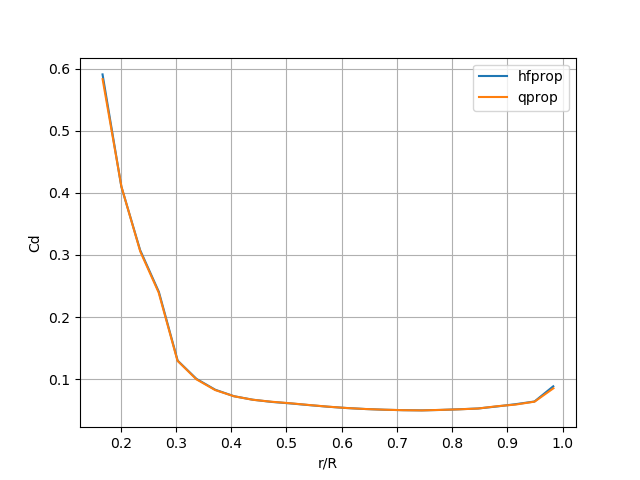
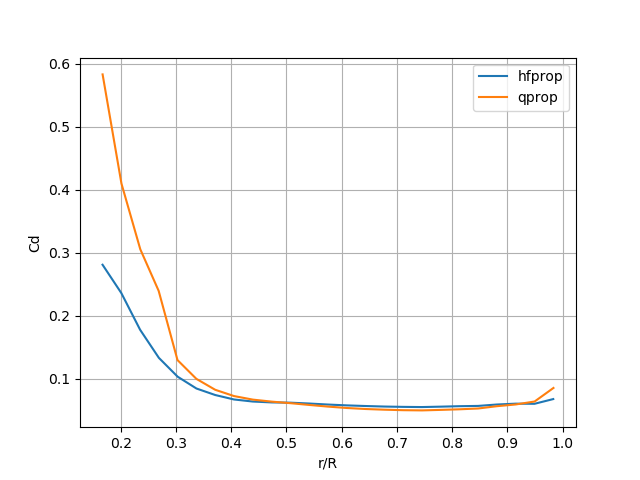
write table plot and compare script

diff --git a/ANALYSIS/validation/compare_table.py b/ANALYSIS/validation/compare_table.py
@@ -1,0 +1,72 @@
+import numpy as np
+import matplotlib.pyplot as plt
+import math
+
+# utcart
+filename = "../airfoil.txt"
+airfoil = np.loadtxt(filename)
+airfoil_alpha = airfoil[:, 0]
+airfoil_cl = airfoil[:, 2]
+airfoil_cd = airfoil[:, 1]
+
+alpha = np.linspace(-20, 20, 500)
+cl = np.interp(alpha, airfoil_alpha, airfoil_cl)
+cd = np.interp(alpha, airfoil_alpha, airfoil_cd)
+
+# qprop way
+# parameters for generating the airfoil polars
+cl0 = 0.58453281
+cla = 5.792954320080275
+dclda = cla
+cl_min = -0.25232311
+cl_max = 1.4911173
+cd0 = 0.020439062369484066
+cd2u = 0.08436756949113908 
+cd2l = 0.06754529977189071
+clcd0 = 0.8051186313378577
+ReynoldsEff = 70262
+REexp = -0.5
+
+cl_q = []
+cd_q = []
+for aoa in alpha:
+    a = math.radians(aoa)
+    cl_qprop = dclda*a + cl0
+    # if stall, cl dicreases
+    stall = False
+    if (cl_qprop < cl_min):
+        stall = True
+        cl_qprop = cl_min * math.cos(a) - cl0/cla
+    elif (cl_qprop > cl_max):
+        stall = True
+        cl_qprop = cl_max * math.cos(a) - cl0/cla
+    
+    # set cd slope based on cl
+    if (cl_qprop >= clcd0):
+        cd2 = cd2u
+    if (cl_qprop < clcd0):
+        cd2 = cd2l
+    cd_qprop = cd0 + cd2*(cl_qprop-clcd0)**2
+    
+    # if stall, cd increases
+    if (stall):
+        acd0 = (clcd0-cl0)/dclda
+        dcd = 2.0 * math.sin(a-acd0)**2
+        cd_qprop = cd_qprop + dcd
+    
+    # append to array
+    cl_q.append(cl_qprop)
+    cd_q.append(cd_qprop)
+
+# plot results
+# cl
+plt.plot(alpha, cl, label='utcart')
+plt.plot(alpha, cl_q, label='qprop')
+plt.legend()
+plt.show()
+# cd
+plt.clf()
+plt.plot(alpha, cd, label='cd')
+plt.plot(alpha, cd_q, label='cd_q')
+plt.legend()
+plt.show()

diff --git a/ANALYSIS/perform_analysis.py b/ANALYSIS/perform_analysis.py
@@ -31,8 +31,8 @@ class HFprop:
     def initialize(self):
         args = self.parse_args()
         self.set_condition(args.condition)
-        # self.load_airfoil(args.airfoil)
-        self.set_qpropairfoil()
+        self.load_airfoil(args.airfoil)
+        # self.set_qpropairfoil()
         self.load_geometry(args.geometry)
 
     def parse_args(self):
@@ -123,15 +123,15 @@ class HFprop:
         for i in range(len(self.r_R)):
             def equation(psi):
                 self.psi[i] = psi
-                # self.update()
-                self.update_qprop(i)
+                self.update()
+                # self.update_qprop(i)
                 return self.gamma[i] - 0.5 *self.W[i] * self.c[i] * self.cl[i]
             
             # ans = fsolve(equation, np.arctan2(self.Ua, self.Ut[i]))
             ans = root_scalar(equation, bracket=(0, 90), method='brentq').root
             self.psi[i] = ans
-            self.update_qprop(i)
-        # self.update()
+            # self.update_qprop(i)
+        self.update()
     
     def update(self):
         self.Ut = self.OMEGA * self.r
